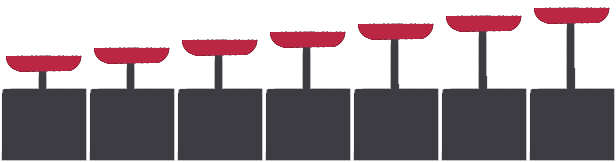
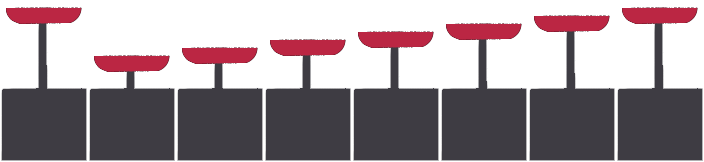
finished microgame11 and created microgame12 scene

Changed region(s): [[0.0, 0.0309, 1.0, 1.0], [0.987, 0.5556, 1.0, 0.9877]]

diff --git a/src/scripts/DebugginDaOpps/MicroGame11.js b/src/scripts/DebugginDaOpps/MicroGame11.js
@@ -9,8 +9,8 @@ export default class MicroGame11 extends Phaser.Scene {
 
     // Game Object Declarations
     this.gameState = true;
-    this.eventScreen;
-    this.startText;
+    this.startScreen;
+    // this.startText;
     this.timedEvent;
     this.lever;
     this.car25;
@@ -27,17 +27,23 @@ export default class MicroGame11 extends Phaser.Scene {
 
   preload() {
     this.load.image(
-      "background",
-      new URL("./assets/background.png", import.meta.url).href
+      "startScreen",
+      new URL("./assets/startScreen.png", import.meta.url).href
     );
     this.load.image(
       "pumpgame_bg",
       new URL("./assets/pumpgame_background.png", import.meta.url).href
     );
-    this.load.image(
-      "temp_car_bg",
-      new URL("./assets/camry_background.png", import.meta.url).href
-    );
+    // this.load.image(
+    //   "temp_car_bg",
+    //   new URL("./assets/camry_background.png", import.meta.url).href
+    // );
+
+    // this.load.image(
+    //   "lever0",
+    //   new URL("./assets/lever0.png", import.meta.url).href
+    // );
+
     this.load.spritesheet(
       "lever",
       new URL("./assets/lever.png", import.meta.url).href,
@@ -69,14 +75,16 @@ export default class MicroGame11 extends Phaser.Scene {
   }
 
   create() {
-    this.add.image(1080 / 2, 720 / 2, "background");
+    this.add.image(1080 / 2, 720 / 2, "startScreen");
     this.add.image(1080 / 2, 720 / 2, "pumpgame_bg");
     // this.add.image(1080 / 2, 720 / 2, "temp_car_bg");
     this.lever = this.physics.add.sprite(955, 480, "lever");
+    // this.add.image(955, 480, "lever0");
     this.car25 = this.physics.add.sprite(540, 350, "car25");
     this.car50 = this.physics.add.sprite(540, 350, "car50");
     this.car75 = this.physics.add.sprite(540, 350, "car75");
     this.car100 = this.physics.add.sprite(540, 350, "car100");
+    this.tempBg = this.add.image(1080 / 2, 720 / 2, "startScreen");
 
     this.car50.visible = false;
     this.car75.visible = false;
@@ -84,64 +92,48 @@ export default class MicroGame11 extends Phaser.Scene {
 
     this.cursors = this.input.keyboard.createCursorKeys();
 
-    this.setText();
+    // this.setText();
 
     this.timedEvent = this.time.delayedCall(1000, this.onEvent, [], this);
-
-    // Animation for car
-
-    // this.anims.create({
-    //   key: "car-inflate",
-    //   frames: [
-    //     { key: "car", frame: 0 },
-    //     { key: "car", frame: 1 },
-    //     { key: "car", frame: 2 },
-    //     { key: "car", frame: 3 },
-    //     { key: "car", frame: 4 },
-    //     { key: "car", frame: 5 },
-    //     { key: "car", frame: 6 },
-    //     { key: "car", frame: 7 },
-    //   ],
-    //   frameRate: 10,
-    // });
 
     // Animation for idle lever
 
     this.anims.create({
       key: "lever-idle",
-      frames: [{ key: "lever", frame: 6 }],
+      frames: [{ key: "lever", frame: 0 }],
       frameRate: 10,
     });
 
     this.anims.create({
       key: "lever-up",
       frames: [
-        { key: "lever", frame: 0 },
         { key: "lever", frame: 1 },
         { key: "lever", frame: 2 },
         { key: "lever", frame: 3 },
         { key: "lever", frame: 4 },
         { key: "lever", frame: 5 },
         { key: "lever", frame: 6 },
+        { key: "lever", frame: 7 },
       ],
-      frameRate: 24,
+      frameRate: 30,
     });
 
     this.anims.create({
       key: "lever-down",
       frames: [
+        { key: "lever", frame: 7 },
         { key: "lever", frame: 6 },
         { key: "lever", frame: 5 },
         { key: "lever", frame: 4 },
         { key: "lever", frame: 3 },
         { key: "lever", frame: 2 },
         { key: "lever", frame: 1 },
-        { key: "lever", frame: 0 },
       ],
-      frameRate: 24,
+      frameRate: 30,
     });
 
     // Car animations
+
     this.anims.create({
       key: "car-inflate-25%",
       frames: [
@@ -202,6 +194,7 @@ export default class MicroGame11 extends Phaser.Scene {
     if (this.gameState) {
       this.clickTimer += delta;
       this.timerCountdown(time);
+      // this.lever.anims.play("lever-idle", true);
       if (this.clickTimer > 100) this.clickAvailable = true;
       if (this.cursors.up.isDown && this.downWasPressed) {
         this.downWasPressed = false;
@@ -209,8 +202,8 @@ export default class MicroGame11 extends Phaser.Scene {
         this.lever.anims.play("lever-up", true);
       } else if (
         this.cursors.down.isDown &&
-        this.clickAvailable &&
-        this.upWasPressed
+        this.upWasPressed &&
+        this.clickAvailable
       ) {
         this.downWasPressed = true;
         this.upWasPressed = false;
@@ -222,7 +215,7 @@ export default class MicroGame11 extends Phaser.Scene {
   }
 
   timerCountdown(time) {
-    if (time / 1000 > 8 && this.playerPumps < this.pumpToWin) {
+    if (time / 1000 > 10 && this.playerPumps < this.pumpToWin) {
       this.gameState = false;
       this.endText = this.add.text(300, 360, "You lose!");
       this.endText.setStyle({
@@ -232,7 +225,7 @@ export default class MicroGame11 extends Phaser.Scene {
       });
     }
 
-    if (time / 1000 > 50 && this.playerPumps >= this.pumpToWin) {
+    if (time / 1000 > 10 && this.playerPumps >= this.pumpToWin) {
       this.gameState = false;
       this.endText = this.add.text(300, 360, "You Won!");
       this.endText.setStyle({
@@ -245,6 +238,7 @@ export default class MicroGame11 extends Phaser.Scene {
 
   updatePump() {
     this.playerPumps += 1;
+    console.log(this.playerPumps);
 
     this.lever.anims.play("lever-down", true);
     if (this.playerPumps === 5) {
@@ -267,21 +261,20 @@ export default class MicroGame11 extends Phaser.Scene {
       this.car75.visible = false;
     }
   }
-  setText() {
-    this.startText = this.add.text(360, 300, "");
-    this.startText.setStyle({
-      fontSize: "100px",
-      fill: "#000000",
-      align: "center",
-    });
+  //   setText() {
+  //     this.startText = this.add.text(360, 300, "");
+  //     this.startText.setStyle({
+  //       fontSize: "100px",
+  //       fill: "#000000",
+  //       align: "center",
+  //     });
 
-    this.tempBg = this.add.image(1080 / 2, 720 / 2, "background");
-    this.startText.setText("PUMP!");
-  }
+  //     this.startText.setText("PUMP!");
+  //   }
 
   onEvent() {
     this.tempBg.visible = false;
-    this.startText.visible = false;
+    // this.startText.visible = false;
   }
 }
 

diff --git a/src/scripts/main.js b/src/scripts/main.js
@@ -3,6 +3,7 @@ import Phaser from "phaser";
 import GlobalState from "./GlobalState";
 import MicroGame01 from "./8Bitties/MicroGame01";
 import MicroGame11 from "./DebugginDaOpps/MicroGame11";
+import MicroGame12 from "./DebugginDaOpps/MicroGame12";
 import MicroGame21 from "./MicroGamers/MicroGame21";
 import MicroGame31 from "./Team4/MicroGame31";
 // Set configuration for phaser game instance
@@ -21,7 +22,7 @@ const config = {
       debug: false,
     },
   },
-  scene: [MicroGame11],
+  scene: [MicroGame12],
   audio: {
     disableWebAudio: true,
   },

diff --git a/src/scripts/DebugginDaOpps/MicroGame12.js b/src/scripts/DebugginDaOpps/MicroGame12.js
@@ -1,0 +1,27 @@
+export default class MicroGame12 extends Phaser.Scene {
+  // Game Class Constructor
+  constructor() {
+    super({
+      active: false,
+      visible: false,
+      key: MicroGame12,
+    });
+
+    // Game Object Declarations
+    // this.gameState = true;
+    this.startScreen;
+  }
+
+  preload() {
+    this.load.image(
+      "startScreen",
+      new URL("./assets1/startscreen.png", import.meta.url).href
+    );
+  }
+
+  create() {
+    this.add.image(1080 / 2, 720 / 2, "startScreen");
+  }
+
+  update() {}
+}
